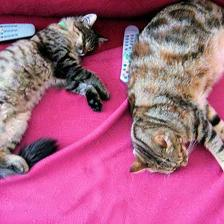
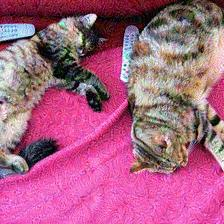
change: use updated fgsm function
This simulates the normalisation steps in conversion from tensor to image
to prevent this from breaking the adversarial noise

diff --git a/src/adversarial_noise/fgsm.py b/src/adversarial_noise/fgsm.py
@@ -53,6 +53,69 @@ def fuzzy_match_label(
     return closest_match
 
 
+# def iterative_fast_gradient_sign_target(
+#     model: ResNetForImageClassification,
+#     image: torch.Tensor,
+#     target_label: str,
+#     label_names: list,
+#     num_iter: int = 10,
+#     alpha: float = 0.002,
+#     verbose: bool = False,
+# ) -> tuple[torch.Tensor, torch.Tensor]:
+#     """
+#     Iterative Fast Gradient Sign Method (FGSM) for targeted attacks.
+
+#     Args:
+#         model: Image classification model.
+#         image: Input images to attack.
+#         target_label: Target label for the attack.
+#         label_names: List of all label names recognized by the model.
+#         num_iter: Number of iterations for the attack.
+#         alpha: Step size for noise to add to the image.
+#         verbose: Whether to print target and predicted labels.
+
+#     Returns:
+#         Tuple of adversarial images and noise gradients.
+#     """
+
+#     target_label = fuzzy_match_label(target_label, label_names)
+
+#     target_label_idx = torch.tensor(model.config.label2id[target_label])
+#     target_label_idx = target_label_idx.to(image.device)
+#     target_labels = torch.full(
+#         (image.size(0),), fill_value=target_label_idx, dtype=torch.long, device=image.device
+#     )
+
+#     adv_image = image.clone()
+
+#     for _ in range(num_iter):
+#         adv_image = adv_image.detach().requires_grad_()
+#         outputs = model(adv_image)
+#         logits = outputs.logits
+#         preds = F.log_softmax(logits, dim=-1)
+#         loss = -torch.nn.CrossEntropyLoss()(preds, target_labels)
+#         loss.sum().backward()
+
+#         if adv_image.grad is None:
+#             raise ValueError("Gradient is None")
+
+#         noise_grad = torch.sign(adv_image.grad)
+#         adv_image = adv_image + alpha * noise_grad
+
+#     noise_grad = adv_image - image
+
+#     predicted_id = logits.argmax(-1).item()
+#     predicted_label = model.config.id2label[predicted_id]
+
+#     if predicted_label != target_label:
+#         print(
+#             f"Failed to target {target_label} with {predicted_label}. Increase alpha or num_iter."
+#         )
+
+#     if verbose:
+#         print(f"Target label: {target_label}, Achieved label: {predicted_label}")
+#     return adv_image.detach(), noise_grad.detach()
+
 def iterative_fast_gradient_sign_target(
     model: ResNetForImageClassification,
     image: torch.Tensor,
@@ -64,10 +127,11 @@ def iterative_fast_gradient_sign_target(
 ) -> tuple[torch.Tensor, torch.Tensor]:
     """
     Iterative Fast Gradient Sign Method (FGSM) for targeted attacks.
+    Handles normalization explicitly to ensure adversarial perturbations survive image conversion.
 
     Args:
         model: Image classification model.
-        image: Input images to attack.
+        image: Input images to attack (assumed to be normalized).
         target_label: Target label for the attack.
         label_names: List of all label names recognized by the model.
         num_iter: Number of iterations for the attack.
@@ -77,35 +141,57 @@ def iterative_fast_gradient_sign_target(
     Returns:
         Tuple of adversarial images and noise gradients.
     """
+    # ImageNet normalization constants
+    mean = torch.tensor([0.485, 0.456, 0.406], device=image.device).view(1, 3, 1, 1)
+    std = torch.tensor([0.229, 0.224, 0.225], device=image.device).view(1, 3, 1, 1)
 
     target_label = fuzzy_match_label(target_label, label_names)
-
     target_label_idx = torch.tensor(model.config.label2id[target_label])
     target_label_idx = target_label_idx.to(image.device)
     target_labels = torch.full(
-        (image.size(0),), fill_value=target_label_idx, dtype=torch.long, device=image.device
+        (image.size(0),),
+        fill_value=target_label_idx,
+        dtype=torch.long,
+        device=image.device,
     )
 
-    adv_image = image.clone()
+    # Denormalize the input image to 0-1 range
+    denorm_image = image * std + mean
+    adv_image = denorm_image.clone()
 
     for _ in range(num_iter):
-        adv_image = adv_image.detach().requires_grad_()
-        outputs = model(adv_image)
+        # Normalize the image before model input
+        norm_adv_image = (adv_image - mean) / std
+        norm_adv_image = norm_adv_image.detach().requires_grad_()
+
+        outputs = model(norm_adv_image)
         logits = outputs.logits
         preds = F.log_softmax(logits, dim=-1)
         loss = -torch.nn.CrossEntropyLoss()(preds, target_labels)
         loss.sum().backward()
 
-        if adv_image.grad is None:
+        if norm_adv_image.grad is None:
             raise ValueError("Gradient is None")
 
-        noise_grad = torch.sign(adv_image.grad)
+        # Scale the gradient back to denormalized space
+        scaled_grad = norm_adv_image.grad * std
+        noise_grad = torch.sign(scaled_grad)
+
+        # Update in denormalized space
         adv_image = adv_image + alpha * noise_grad
 
-    noise_grad = adv_image - image
+        # Clip to valid image range
+        adv_image = torch.clamp(adv_image, 0, 1)
 
-    predicted_id = logits.argmax(-1).item()
-    predicted_label = model.config.id2label[predicted_id]
+    # Calculate noise in denormalized space
+    noise_grad = adv_image - denorm_image
+
+    # Final prediction using normalized image
+    final_norm_image = (adv_image - mean) / std
+    with torch.no_grad():
+        final_logits = model(final_norm_image).logits
+        predicted_id = final_logits.argmax(-1).item()
+        predicted_label = model.config.id2label[predicted_id]
 
     if predicted_label != target_label:
         print(
@@ -114,7 +200,10 @@ def iterative_fast_gradient_sign_target(
 
     if verbose:
         print(f"Target label: {target_label}, Achieved label: {predicted_label}")
-    return adv_image.detach(), noise_grad.detach()
+
+    # Return the adversarial image in normalized space to match input
+    normalized_adv_image = (adv_image - mean) / std
+    return normalized_adv_image.detach(), noise_grad.detach()
 
 
 def tensor_to_image(tensor: torch.Tensor) -> Image.Image:
